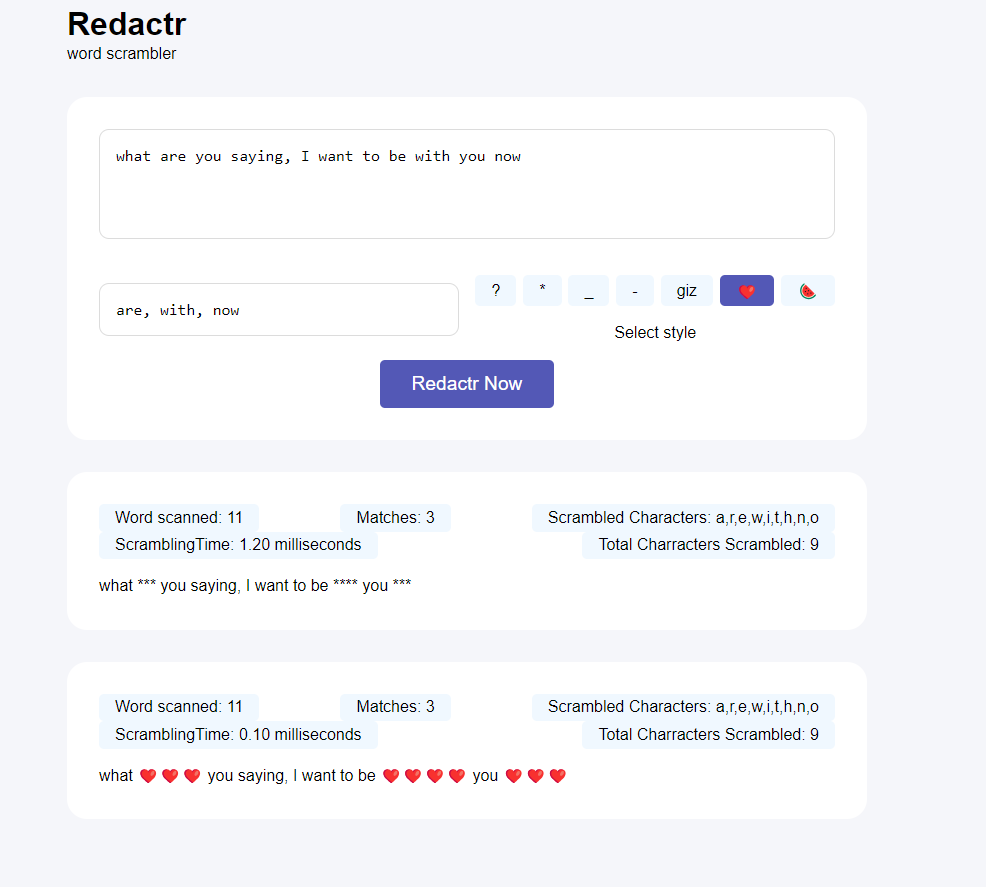
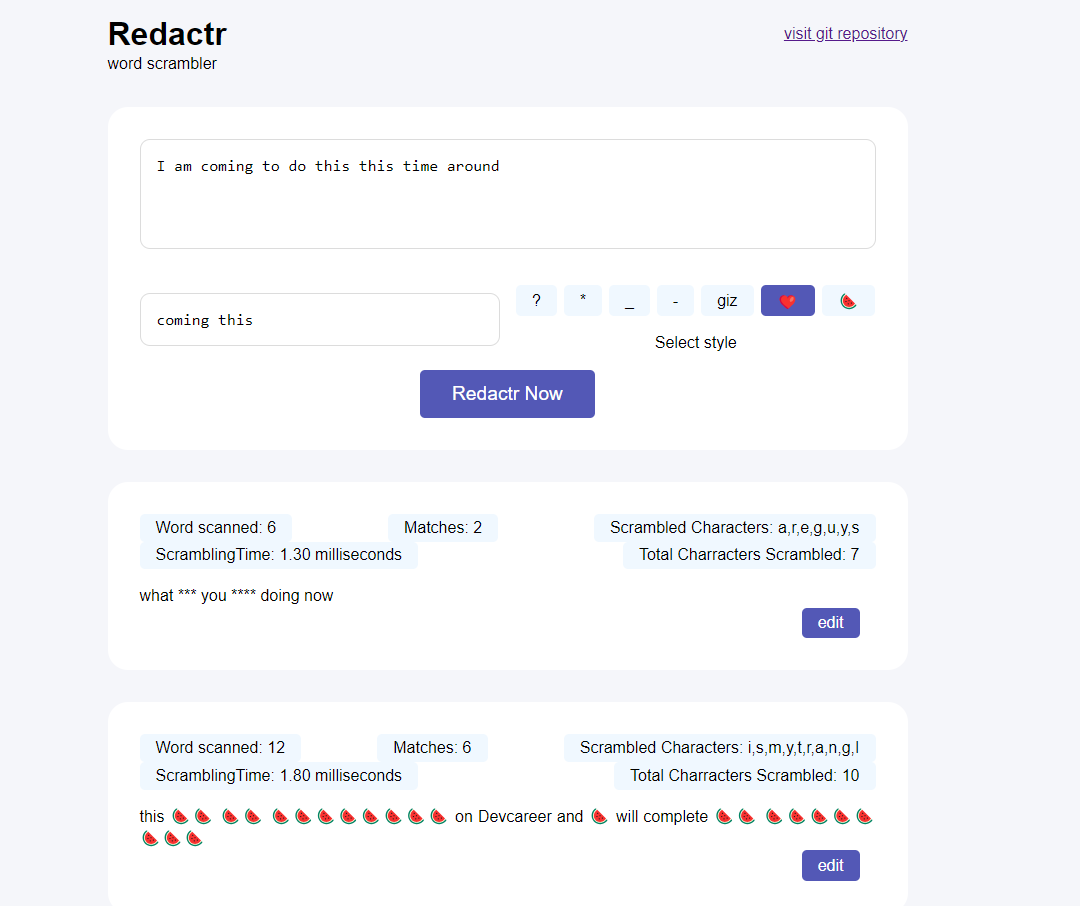
[fix] add the edit function

diff --git a/script.js b/script.js
@@ -6,8 +6,20 @@ const statsCont = document.querySelector(".stats_container");
 const postedCommentContainer = document.querySelector(".div");
 let postArr = [];
 
+// craete a global opbject containing the index of the found array to be edited also the object will contain the flag edit and will be set to true if the edit button has been clicked
+
+const editState = {
+  currentIndex: null,
+  edit: false,
+};
+
 // funtion to replace scrambled words
-function Rreplace(sentence, wordsToReplace, selection = "*") {
+function Rreplace(
+  sentence,
+  wordsToReplace,
+  selection = "*",
+  selectSpan = "span-2"
+) {
   const regexString = wordsToReplace; // Example regex string
   const flags = "gi"; // Flags for global and case-insensitive matching
 
@@ -21,36 +33,44 @@ function Rreplace(sentence, wordsToReplace, selection = "*") {
     return selection.repeat(match.length);
   });
   const characters = Array.from(new Set(wordMatch.join("")));
-  const  char  = characters.join(",")
+  const char = characters.join(",");
 
   return {
     scrambled: replacedSentence,
     wordScanned: sentence.split(" ").length,
     matchs: count,
-    scrambledChar:char,
-    length: characters.length
-    
+    scrambledChar: char,
+    length: characters.length,
+    actualSentence: sentence,
+    selectSpanId: selectSpan,
   };
 }
 
 let select;
-statsCont.addEventListener("click", function (e) {
-  const id = e.target.dataset.id;
+let selctedSpanId;
+function getSelectedStyle(id) {
   selectedVal.forEach((element) => {
     if (id === element.dataset.id) {
+      selctedSpanId = element.dataset.id;
       select = element.textContent;
       element.classList.add("add");
     } else {
       element.classList.remove("add");
     }
   });
+}
+
+statsCont.addEventListener("click", function (e) {
+  const id = e.target.dataset.id;
+  getSelectedStyle(id);
 });
+
 // funtion to display the content
 
 function displayPost(arr) {
-
-    const elm = arr.map((element)=>{
-        return `   <section class="section">
+  const elm = arr
+    .map((element) => {
+      return `   <section class="section">
         <div class="input-container">
           <div class="stats">
             <span>Word scanned: ${element.wordScanned}</span>
@@ -63,23 +83,25 @@ function displayPost(arr) {
           <p>
        ${element.scrambled}
           </p>
+             <div class="btn-container">
+
+              <button class="edit-btn" data-id=${element.id}>edit</button>
+          </div>
       </section>`;
-    }).join("")
+    })
+    .join("");
 
-  postedCommentContainer.innerHTML = elm  
-
-    
+  postedCommentContainer.innerHTML = elm;
 }
 
-
-btnRedact.addEventListener("click", () => {
-    const word = post.value;
-    if( !Boolean(Boolean(word.split(" ").join("")) && Boolean(scrambleInput.value.split(" ").join("")))){
-return alert("please enter a word")
-    }
-const wordWithoutSpace = scrambleInput.value.split(" ").join("")
-
-  const scramble = wordWithoutSpace.split(",")
+function handleRegex(word, wordWithoutSpace) {
+  if (
+    !Boolean(Boolean(word.split(" ").join("")) && Boolean(wordWithoutSpace))
+  ) {
+    alert("please enter a word");
+    return;
+  }
+  const scramble = wordWithoutSpace.split(",");
   let u = "";
   for (let i = 0; i < scramble.length; i++) {
     if (i === scramble.length - 1) {
@@ -91,19 +113,67 @@ const wordWithoutSpace = scrambleInput.value.split(" ").join("")
 
   const regEx = `\\b(${u})\\b`;
   const start = performance.now();
-  const show = Rreplace(word, regEx, select);
+  const show = Rreplace(word, regEx, select, selctedSpanId);
   const end = performance.now();
 
   const executionTime = end - start;
 
   const newWord = {
     ...show,
-    id: postArr.length + 1,
+
     execution: `${executionTime.toFixed(2)} milliseconds`,
   };
 
-  postArr = [...postArr, newWord];
+  return newWord;
+}
 
-  displayPost(postArr)
+btnRedact.addEventListener("click", () => {
+  const word = post.value;
+  const wordWithoutSpace = scrambleInput.value.split(" ").join(",");
 
+  const newWord = handleRegex(word, wordWithoutSpace);
+
+  if (!newWord) return;
+
+  const adWord = {
+    ...newWord,
+    actualWordScanned: scrambleInput.value,
+    id: editState.edit ? editState.currentIndex : postArr.length + 1,
+  };
+  //  if edit is false just push in to the next index meaning that u are creating a redactr
+  // sendly call the handleRegex function first
+  // but if edit is true then u need to run a loop first keep push the objects in the aaray to the next index until you get to the
+  // you get to the current index then push that edited object to that very index were it belongs
+
+  if (editState.edit) {
+    postArr[editState.currentIndex] = adWord;
+
+    displayPost(postArr);
+    editState.currentIndex = null;
+    editState.edit = false;
+  } else {
+    postArr = [...postArr, adWord];
+    displayPost(postArr);
+  }
+  (post.value = ""), (scrambleInput.value = "");
+});
+
+postedCommentContainer.addEventListener("click", function (e) {
+  const { id } = e.target.dataset;
+
+  if (!id) {
+    return;
+  }
+
+  const numberId = Number(id);
+  const editableArray = postArr.find((post) => post.id === numberId);
+  const editableArrayIndex = postArr.findIndex((post) => post.id === numberId);
+  const displayedPost = postArr.filter((post) => post.id !== numberId);
+
+  editState.currentIndex = editableArrayIndex;
+  editState.edit = true;
+  post.value = editableArray.actualSentence;
+  scrambleInput.value = editableArray.actualWordScanned;
+  getSelectedStyle(editableArray.selectSpanId);
+  displayPost(displayedPost);
 });

diff --git a/index.html b/index.html
@@ -26,7 +26,7 @@
           <textarea name="" id="post" rows="4" placeholder="write something...."></textarea>
         </div>
         <div class="redact-container">
-          <textarea name="" id="scramble_input" rows="1.5" placeholder="words to scramble separated with comma"></textarea>
+          <textarea name="" id="scramble_input" rows="1.5" placeholder="words to scramble separated with comma or space"></textarea>
           
      <div style="width: 50% ; margin-left: 1rem">
          <div class="stats stats_container"   >

diff --git a/README.md b/README.md
@@ -26,7 +26,11 @@ by default it iuses the "*" astericks
 4. finally click on the redactr now button  to see the scrambled word
 ![Alt text](image-3.png)
 
+5. You can as well edit your previous scrambled word by clicking on the edit button on each post
+
 ## Example output
+![Alt text](image-5.png)
+
 ![Alt text](image-4.png)
 
 ## Set-up Guidline
